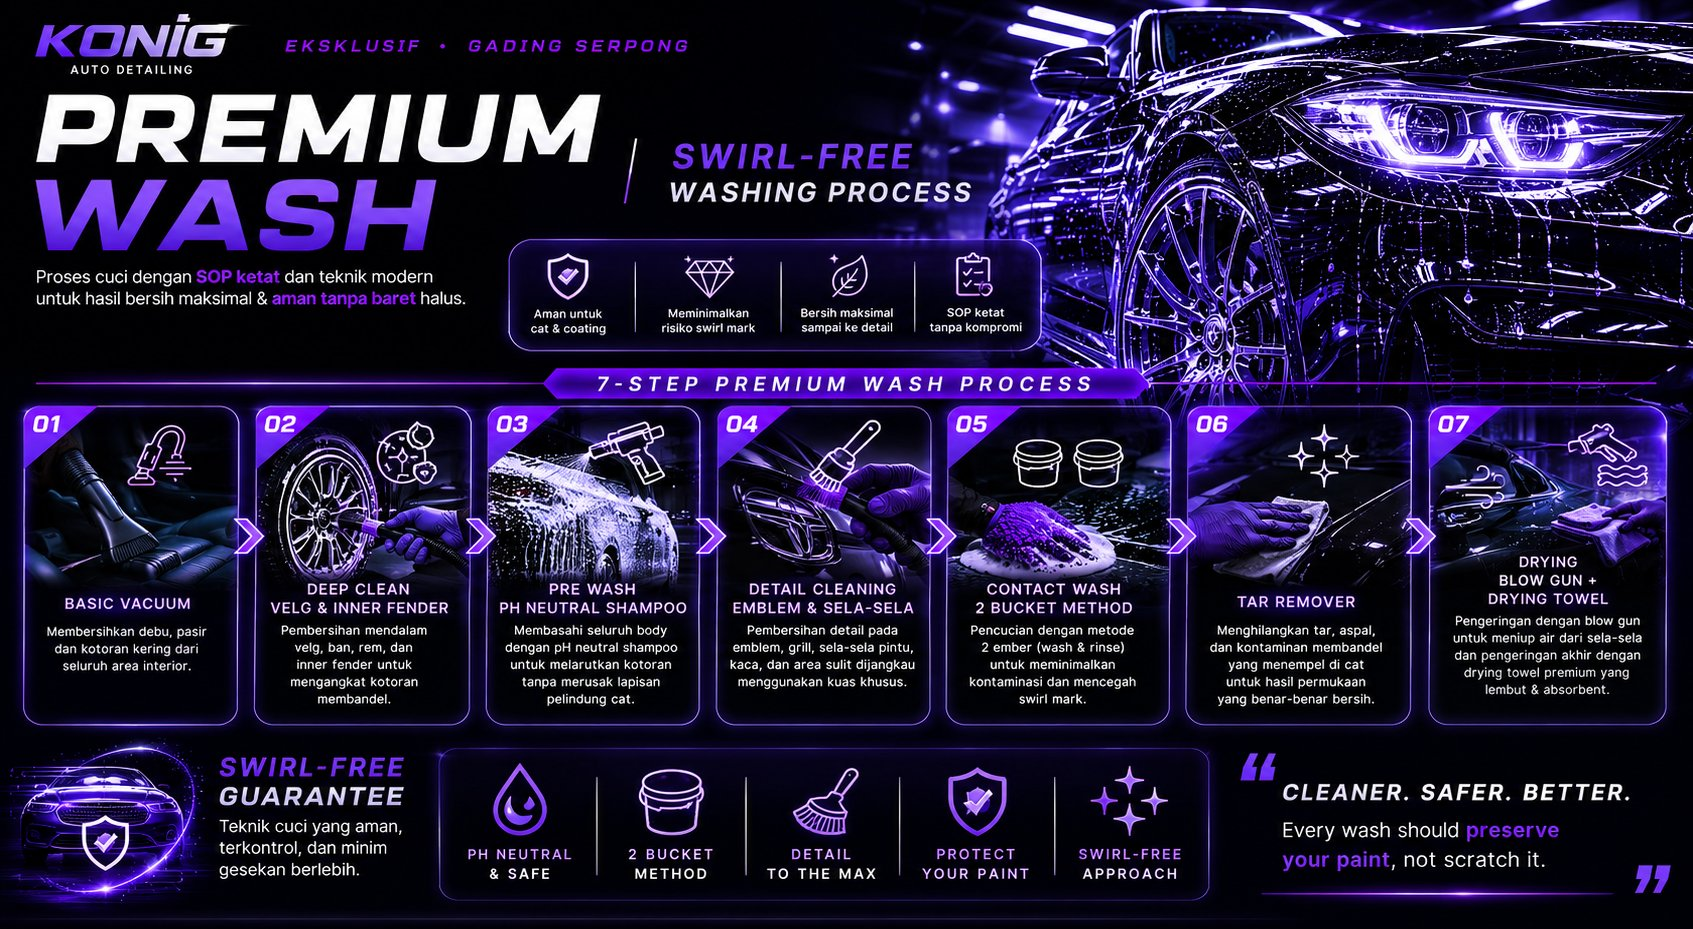
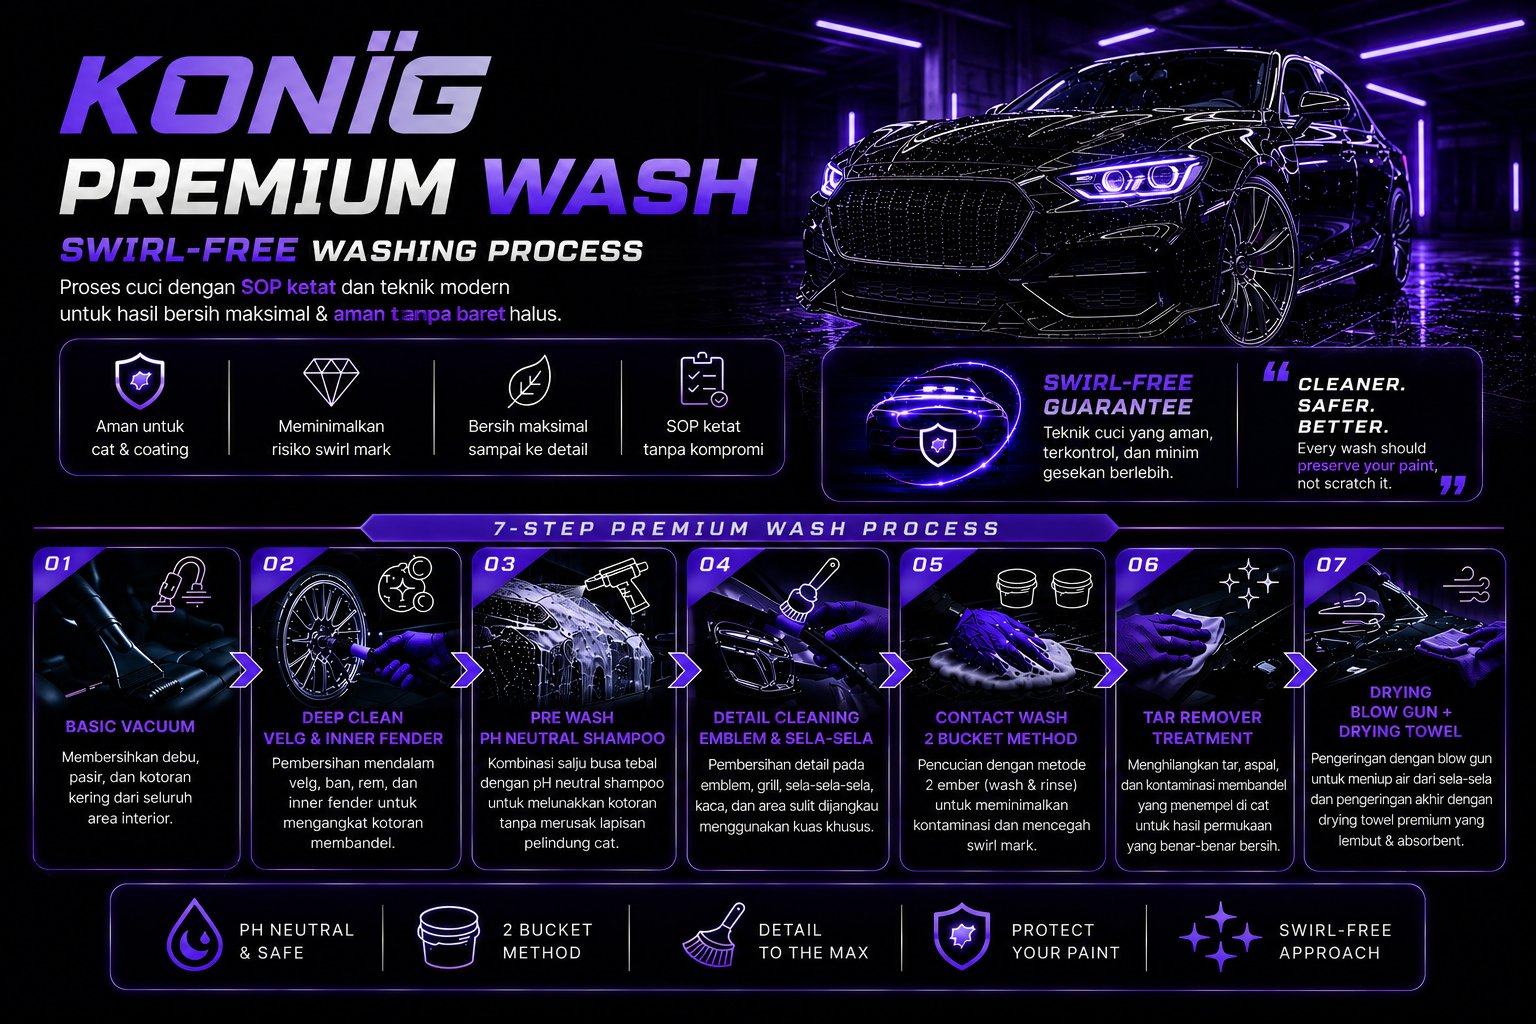
Add files via upload

diff --git a/index.html b/index.html
@@ -656,9 +656,32 @@
     const isMobile = window.innerWidth <= 600
     const img = document.getElementById('grapheneWhyImg')
     const box = document.getElementById('grapheneWhyContent')
+    const modal = document.getElementById('grapheneWhyModal')
     img.src = isMobile ? 'graphene-why-mobile.png' : 'graphene-why-desktop.png'
-    box.style.maxWidth = isMobile ? '420px' : '1100px'
-    document.getElementById('grapheneWhyModal').style.display = 'flex'
+    if (isMobile) {
+      box.style.maxWidth = '100%'
+      box.style.maxHeight = '100vh'
+      box.style.overflowY = 'hidden'
+      box.style.display = 'flex'
+      box.style.flexDirection = 'column'
+      img.style.flex = '1'
+      img.style.objectFit = 'contain'
+      img.style.maxHeight = 'calc(100vh - 56px)'
+      img.style.width = '100%'
+      modal.style.padding = '0'
+      modal.style.alignItems = 'flex-end'
+    } else {
+      box.style.maxWidth = '1100px'
+      box.style.maxHeight = '92vh'
+      box.style.overflowY = 'auto'
+      box.style.display = 'block'
+      img.style.flex = ''
+      img.style.objectFit = ''
+      img.style.maxHeight = ''
+      modal.style.padding = '16px'
+      modal.style.alignItems = 'center'
+    }
+    modal.style.display = 'flex'
     trackEvent('graphene_why_open', { device: isMobile ? 'mobile' : 'desktop' })
   }
 
@@ -685,9 +708,40 @@
     const isMobile = window.innerWidth <= 600
     const img = document.getElementById('serviceModalImg')
     const box = document.getElementById('serviceModalContent')
+    const modal = document.getElementById('serviceModal')
+
     img.src = isMobile ? imgs.mobile : imgs.desktop
-    box.style.maxWidth = isMobile ? '420px' : '1100px'
-    document.getElementById('serviceModal').style.display = 'flex'
+
+    if (isMobile) {
+      // Mobile: fit entire image on screen, no scroll needed
+      box.style.maxWidth = '100%'
+      box.style.maxHeight = '100vh'
+      box.style.overflowY = 'hidden'
+      box.style.display = 'flex'
+      box.style.flexDirection = 'column'
+      box.style.padding = '0'
+      img.style.flex = '1'
+      img.style.objectFit = 'contain'
+      img.style.maxHeight = 'calc(100vh - 56px)' // leave room for CTA button
+      img.style.width = '100%'
+      modal.style.padding = '0'
+      modal.style.alignItems = 'flex-end'
+    } else {
+      // Desktop: scrollable, max width
+      box.style.maxWidth = '1100px'
+      box.style.maxHeight = '92vh'
+      box.style.overflowY = 'auto'
+      box.style.display = 'block'
+      box.style.padding = ''
+      img.style.flex = ''
+      img.style.objectFit = ''
+      img.style.maxHeight = ''
+      img.style.width = '100%'
+      modal.style.padding = '16px'
+      modal.style.alignItems = 'center'
+    }
+
+    modal.style.display = 'flex'
     trackEvent('service_modal_open', { service: serviceKey, device: isMobile ? 'mobile' : 'desktop' })
   }
 